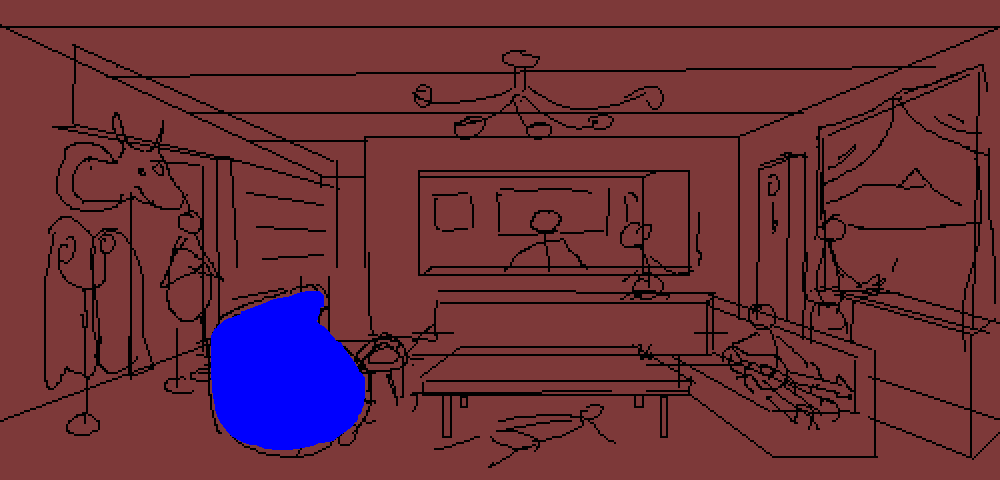
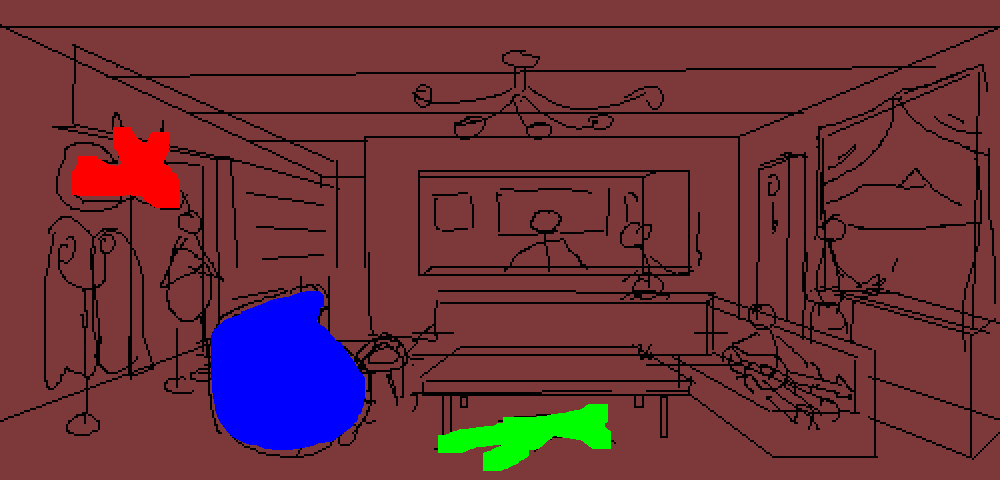
Progress in bg and another action

Changed region(s): [[0.434, 0.8438, 0.62, 1.0], [0.062, 0.25, 0.186, 0.4375]]

diff --git a/src/js/main.js b/src/js/main.js
@@ -34,12 +34,12 @@ class Game {
         this.rendererMap.view.style.top = '0px';
         this.rendererMap.view.style.left = '0px';
 
-        this.statusText = new PIXI.Text('',{font : '18px Pixilator', fill : 0xffffff, 'text-align' : 'center'});
+        this.statusText = new PIXI.Text('',{font : '18px Pixilator', fill : 0xeeeeee, 'text-align' : 'center'});
         this.statusText.anchor.set(0.5, 0.5);
         this.statusText.x = 500;
         this.statusText.y = 520;
 
-        this.talkingText = new PIXI.Text('',{font : '18px Pixilator', fill : 0xffffff, 'text-align' : 'center'});
+        this.talkingText = new PIXI.Text('',{font : '18px Pixilator', fill : 0xeeeeee, 'text-align' : 'center', align: 'center'});
         this.talkingText.anchor.set(0.5, 0.5);
         this.talkingText.x = 500;
         this.talkingText.y = 50;
@@ -69,7 +69,7 @@ class Game {
     }
 
     onLoad(loader, resources) {
-        var bgTexture = new PIXI.Texture(resources.bgMap.texture, new PIXI.Rectangle(0, 0, 1000, 480));
+        var bgTexture = new PIXI.Texture(resources.bg.texture, new PIXI.Rectangle(0, 0, 1000, 480));
         var background = new PIXI.Sprite(bgTexture);
         background.anchor.x = 0;
         background.anchor.y = 0;
@@ -131,7 +131,7 @@ class Game {
     }
 
     getMapCoord(x, y) {
-        var imgd = this.renderer.view.getContext('2d').getImageData(x, y, 1, 1);
+        var imgd = this.rendererMap.view.getContext('2d').getImageData(x, y, 1, 1);
         var pix = imgd.data;
         var hex = '#' + ('000000' + rgbToHex(pix[0], pix[1], pix[2])).slice(-6);
         return entities[hex];

diff --git a/src/js/entities.js b/src/js/entities.js
@@ -5,11 +5,29 @@ const entities = {
         name: 'sofa',
         actions: {
             LOOK : {
-                text: 'A sofa. Looks cozy, but Matt is sitting on it',
+                text: 'A sofa. Looks cozy, but Matt is sitting on it.',
                 timeout: 3000,
             }
         }
-    }
+    },
+    '#ff0000' : {
+        name: 'elk head',
+        actions: {
+            LOOK : {
+                text: 'Its face reminds me of a past relationship. \nI don\'t really want to talk about it.',
+                timeout: 5000,
+            }
+        }
+    },
+    '#00ff00' : {
+        name: 'Johnny\s body',
+        actions: {
+            LOOK : {
+                text: 'He is dead.\nBetter sort this out before Nick arrives.',
+                timeout: 5000,
+            }
+        }
+    },
 }
 
 export default entities;
